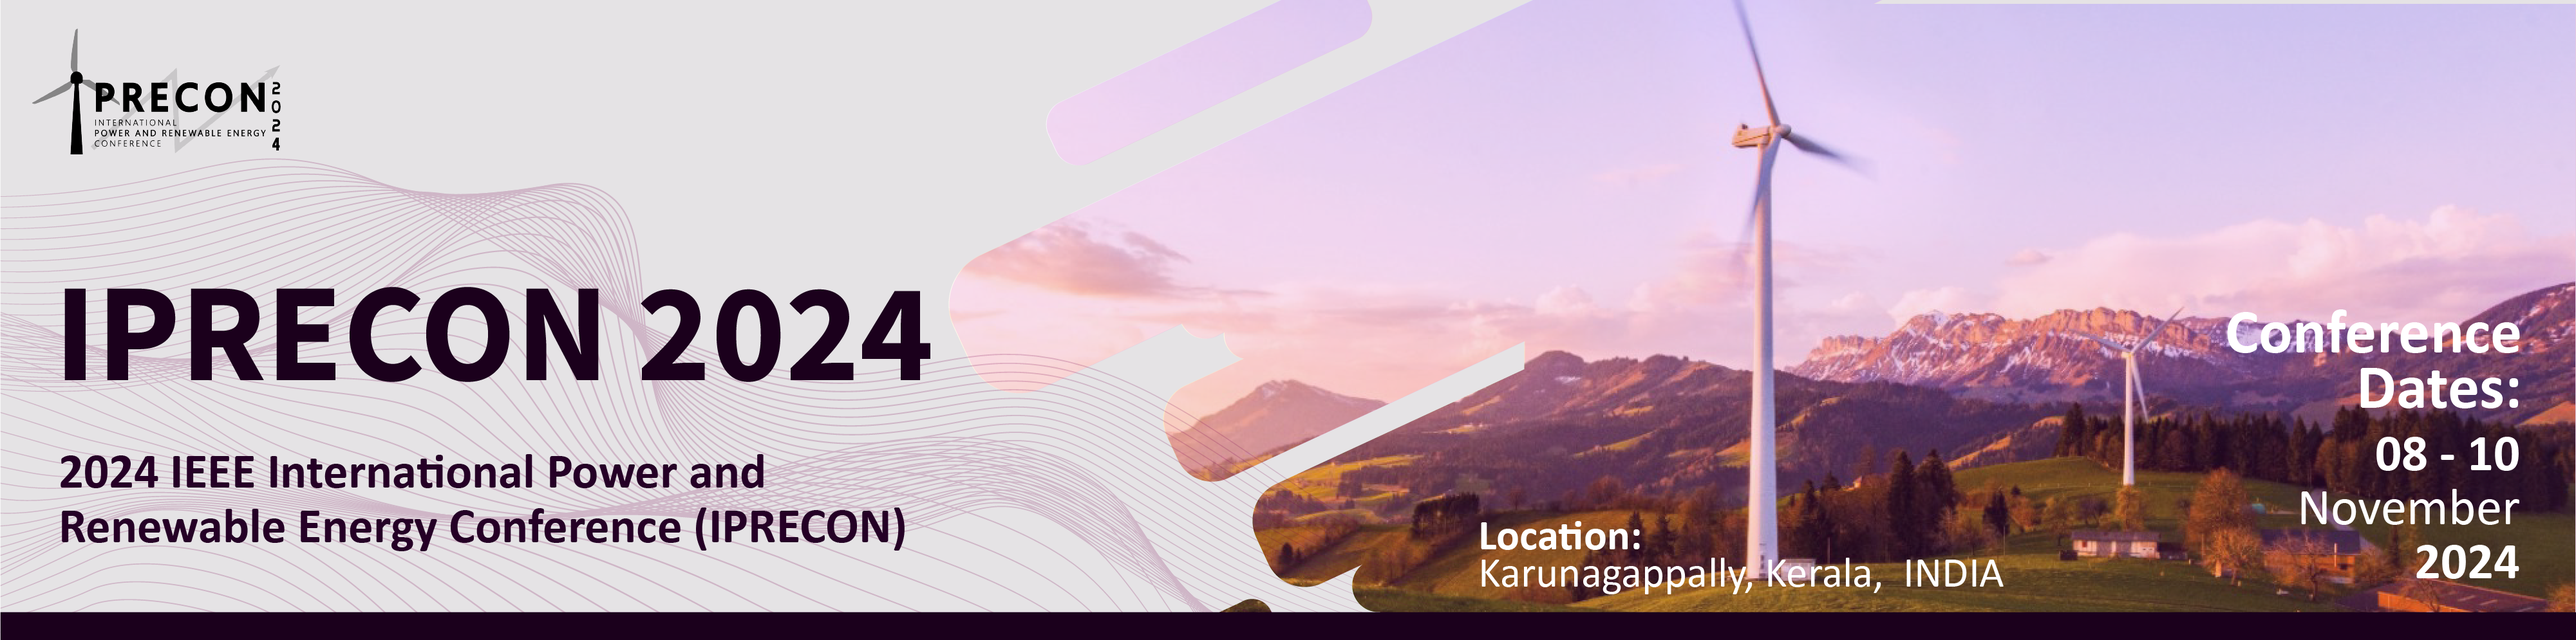
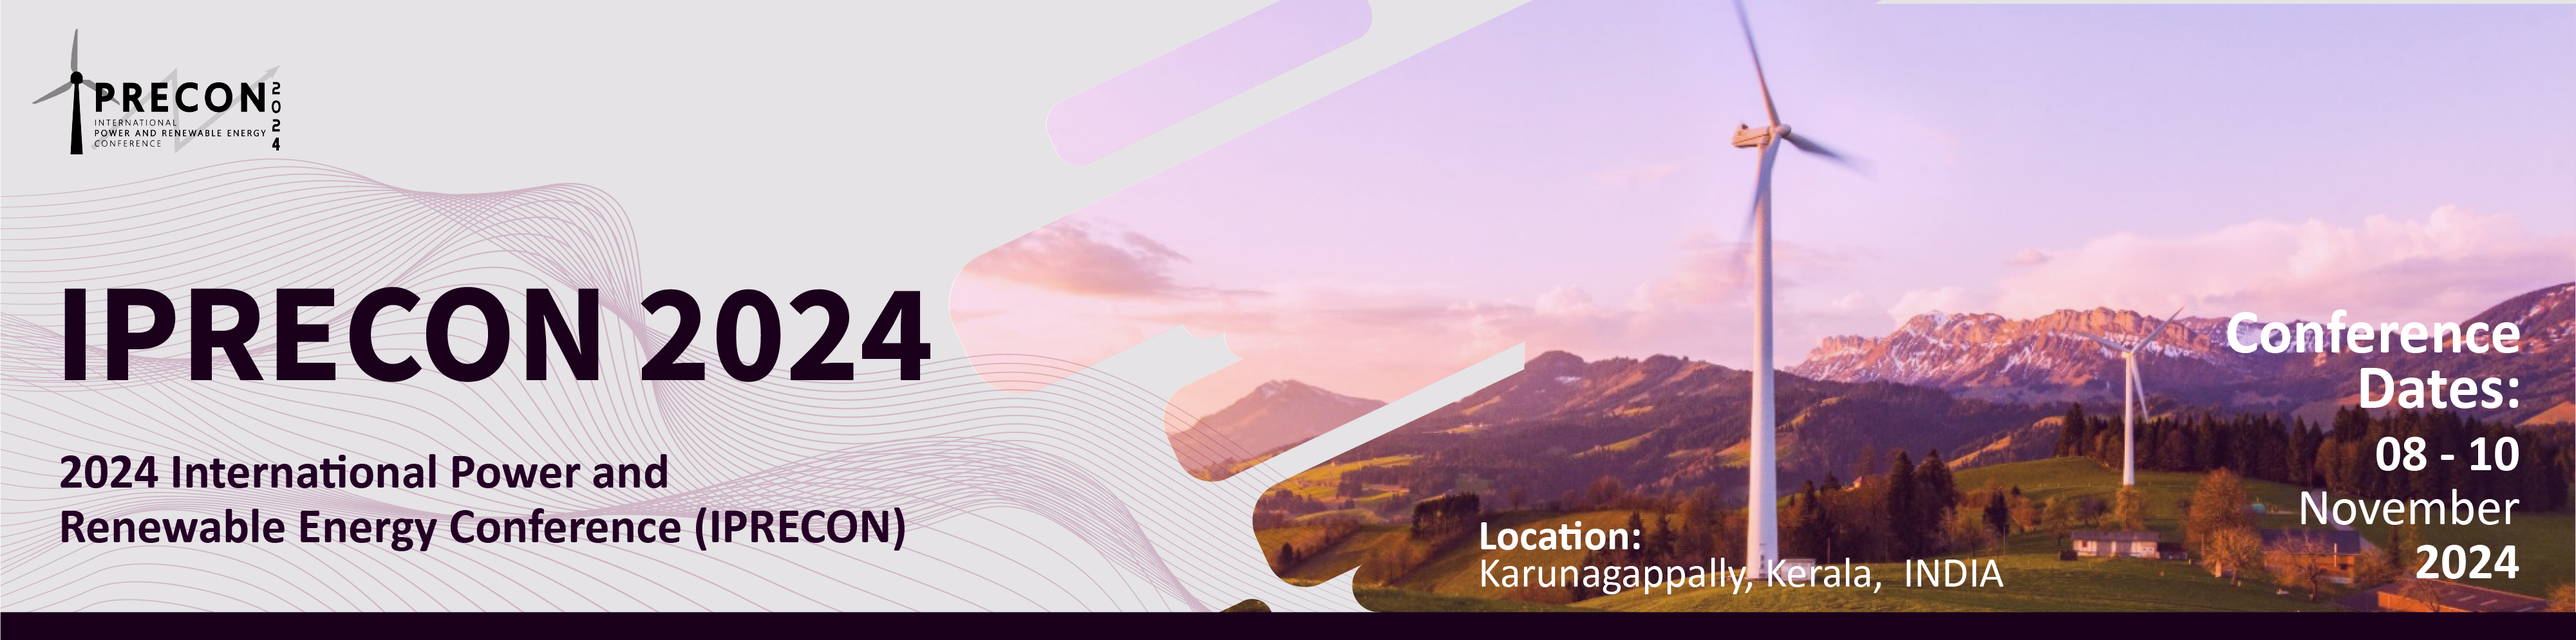
added cfp and changed WEBSITE

Changed region(s): [[0.0625, 0.7166, 0.3124, 0.7789]]

diff --git a/index.html b/index.html
@@ -251,8 +251,8 @@
                         About</h1>
                     <p class="text-justify"
                         style="font-family: Montserrat, sans-serif;color: rgb(255,255,255);font-size: 14px;padding: 0px;padding-top: 0px;margin-top: 33px;">
-                        2024 IEEE International Power and Renewable Energy Conference (IPRECON) is
-                        the 4th edition of India's first IEEE IAS Club of 6 Technical Paper Conference organized
+                        2024 International Power and Renewable Energy Conference (IPRECON) is
+                        the 4th edition of Technical Paper Conference organized
                         by the IEEE Student Branch College of Engineering Karunagappally. IPRECON provides a
                         platform for students and professionals from all around the world to share their
                         findings in the fields of Power, Renewable Energy and Computing Technologies. With
@@ -354,9 +354,9 @@
                                         <li>Fuzzy semantic Web<br></li>
                                         <li>Swarm intelligence and algorithms for optimising smart cities<br></li>
                                     </ul>
-                                    Accepted papers will be submitted for inclusion into the IEEE
+                                    <!-- Accepted papers will be submitted for inclusion into the IEEE
                                     Xplore<span>&#174;</span> Digital Library subject to meeting IEEE Xplore's scopes
-                                    and quality requirements.<br><br>
+                                    and quality requirements.<br><br> -->
                                     <a href="assets/CFP-2024.pdf"><button class="btn btn-primary" type="button"
                                             style="margin-bottom: 30px;background-color:  #210F21;width: 203px;height: 45px; border-radius: 10px; "><strong>Download CFP
                                             </strong></button></a>
